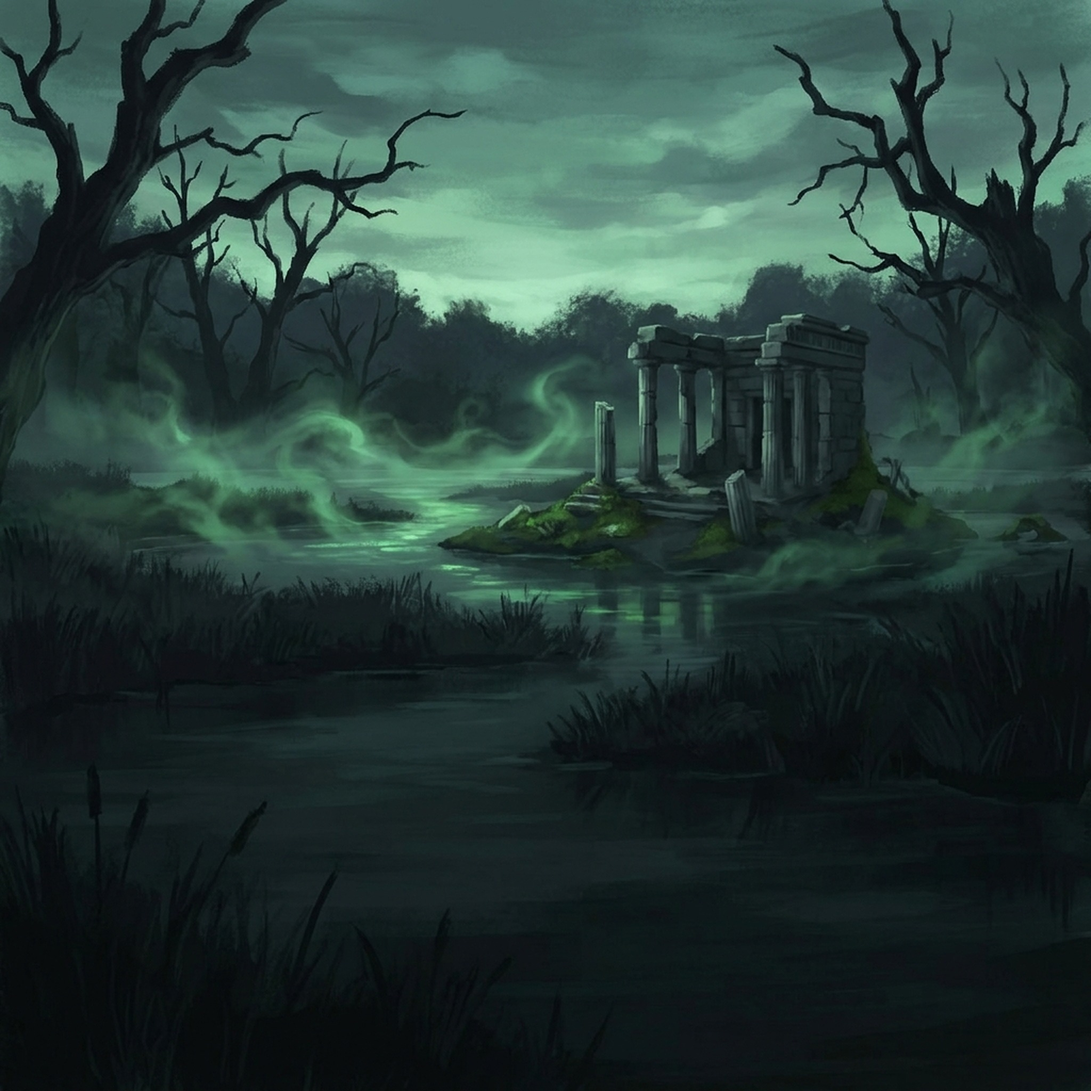
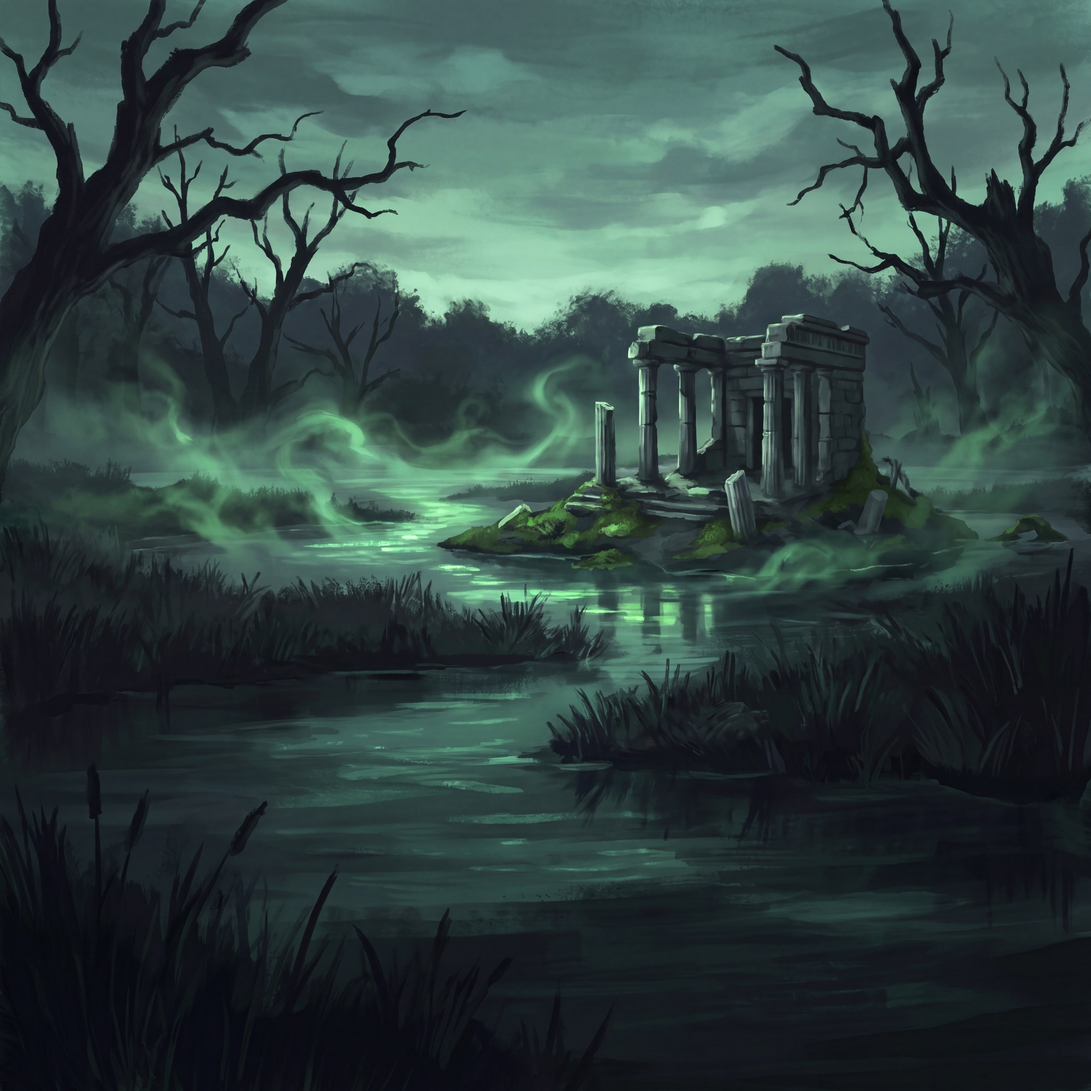
Nineteen backdrops repainted at 4K from their own files, shipped at 2048
genart.py --resolution never reached the request: the call site dropped
the flag, and two probes at 1376x768 were blamed on the API. With it
passed, gemini-3-pro-image paints 4096x4096 and 5504x3072. Every battle
and dungeon backdrop and the summon hall were repainted as an edit of the
shipped file (tools/batch/backdrops_4k.sh: the composition, the horizon
and every element kept, finer brushwork and texture added; measured on
the Duat gate at a mean abs diff of 4.8/255, the ruins beyond the gate
that the first painting left as fog now painted). The 4K raw is kept in
Art/Backdrops/<name>_4k.jpg; the bundle ships the same 2048 fitted down
from it, since a phone never shows more and a 4K texture is 67 MB of GPU
memory. The island and the Hall of Ka were left alone: their anchors were
measured on the paintings.

Claude-Session: https://claude.ai/code/session_01UWm8wBqgkvhU3PN6wHTkXq

diff --git a/tools/genart.py b/tools/genart.py
@@ -38,7 +38,7 @@ def load_key(path):
     sys.exit("no API key: set GEMINI_API_KEY or pass --key-file")
 
 
-def build_request(prompt, ref_path, aspect):
+def build_request(prompt, ref_path, aspect, resolution=None):
     parts = [{"text": f"{prompt}. {ALWAYS_AVOID}."}]
     if ref_path:
         data = base64.b64encode(Path(ref_path).read_bytes()).decode()
@@ -51,6 +51,10 @@ def build_request(prompt, ref_path, aspect):
             "imageConfig": {"aspectRatio": aspect},
         },
     }
+    if resolution:
+        # gemini-3-pro-image paints at 1K, 2K or 4K (about 13, 13 and 24
+        # cents); the backdrops went to 4K on 2026-09-17 on the owner's word.
+        body["generationConfig"]["imageConfig"]["imageSize"] = resolution
     return body
 
 
@@ -112,6 +116,7 @@ def main():
     ap.add_argument("--prompt", required=True)
     ap.add_argument("--out", required=True)
     ap.add_argument("--size", default="1024x1024", help="WxH")
+    ap.add_argument("--resolution", choices=["1K", "2K", "4K"], help="the painter's own output size (gemini-3-pro-image); the file is then fitted to --size")
     ap.add_argument("--ref", help="reference image to edit from")
     ap.add_argument("--model", default="gemini-3-pro-image")
     ap.add_argument("--key-file")
@@ -125,7 +130,7 @@ def main():
     aspect_str = min(aspect.items(), key=lambda kv: abs(kv[0] - ratio))[1]
 
     key = load_key(args.key_file)
-    body = build_request(args.prompt, args.ref, aspect_str)
+    body = build_request(args.prompt, args.ref, aspect_str, resolution=args.resolution)
 
     print(f"{args.model}  {aspect_str}  -> {args.out}" + (f"  (ref: {Path(args.ref).name})" if args.ref else ""))
     t0 = time.time()
